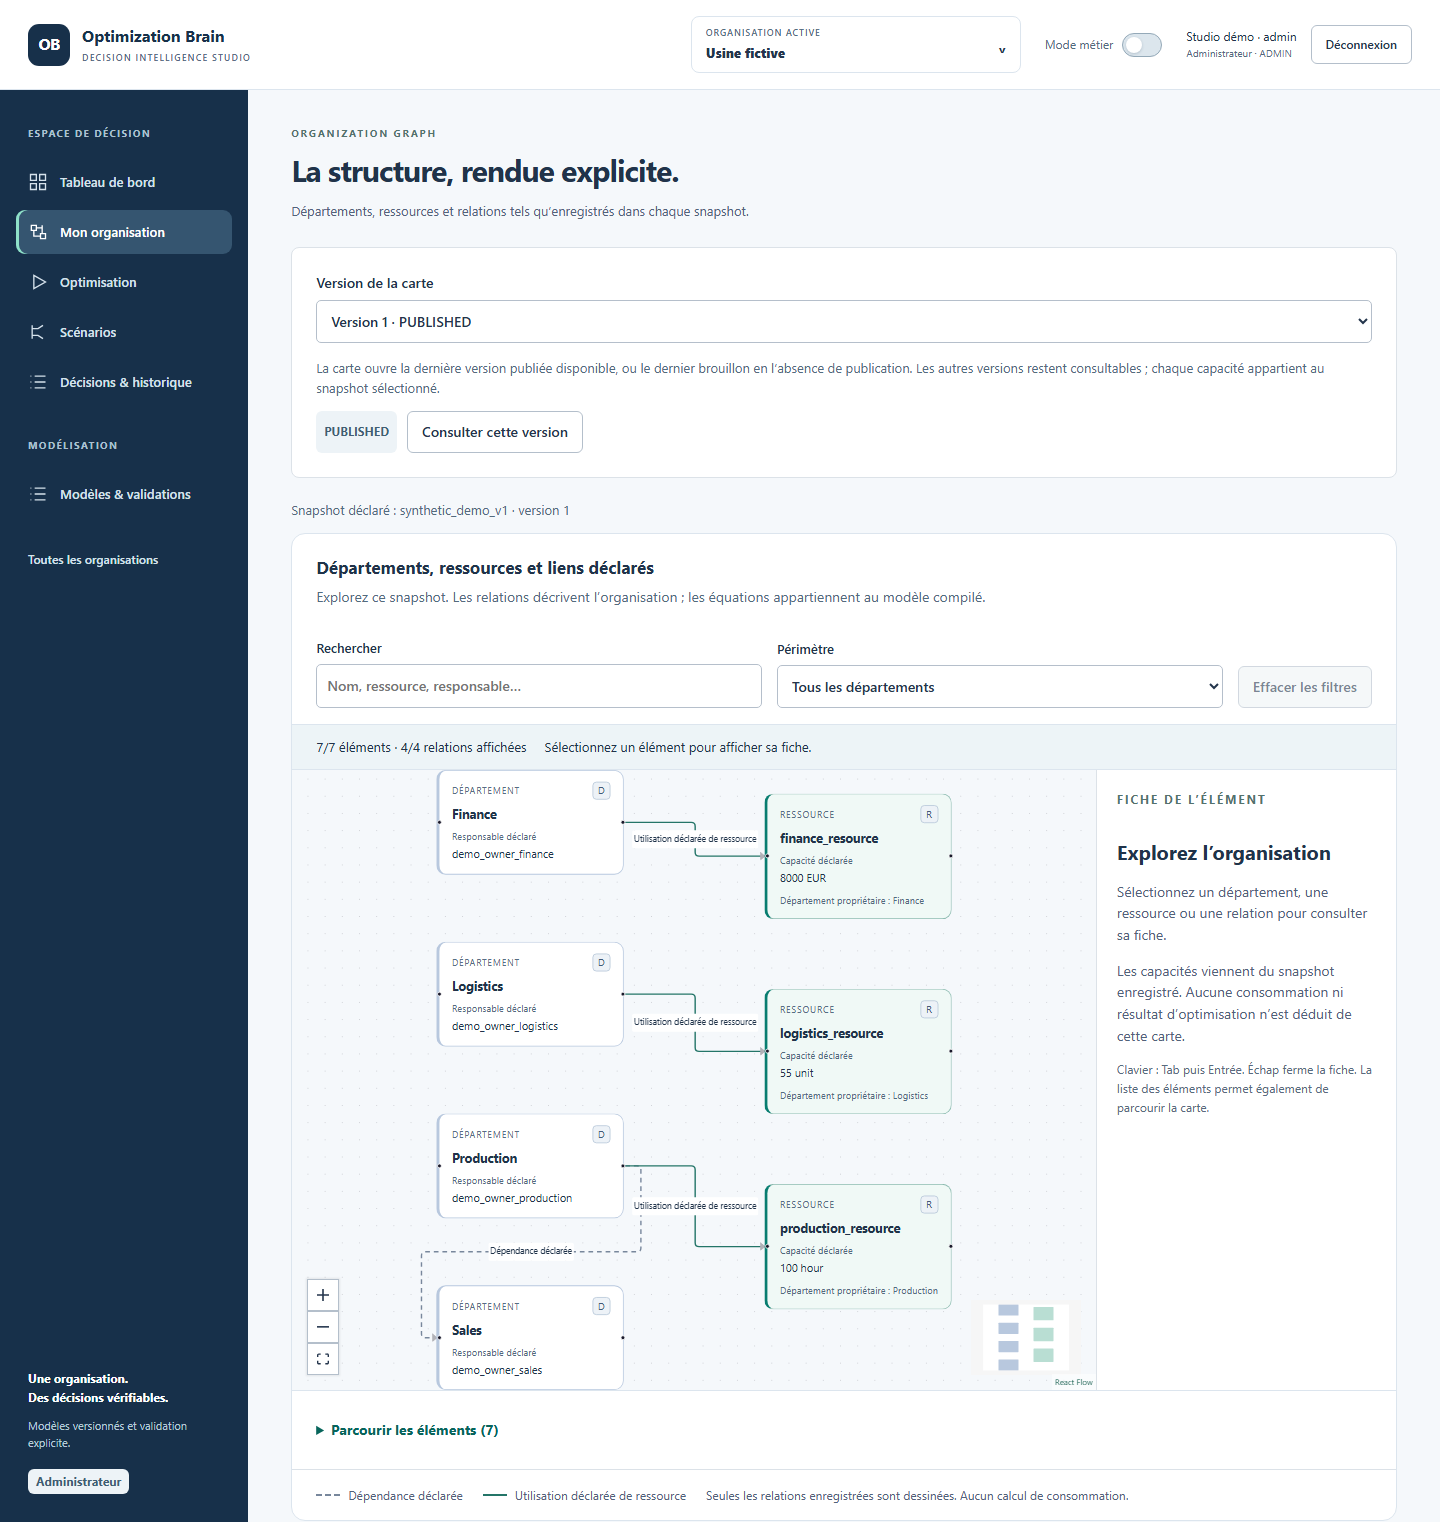
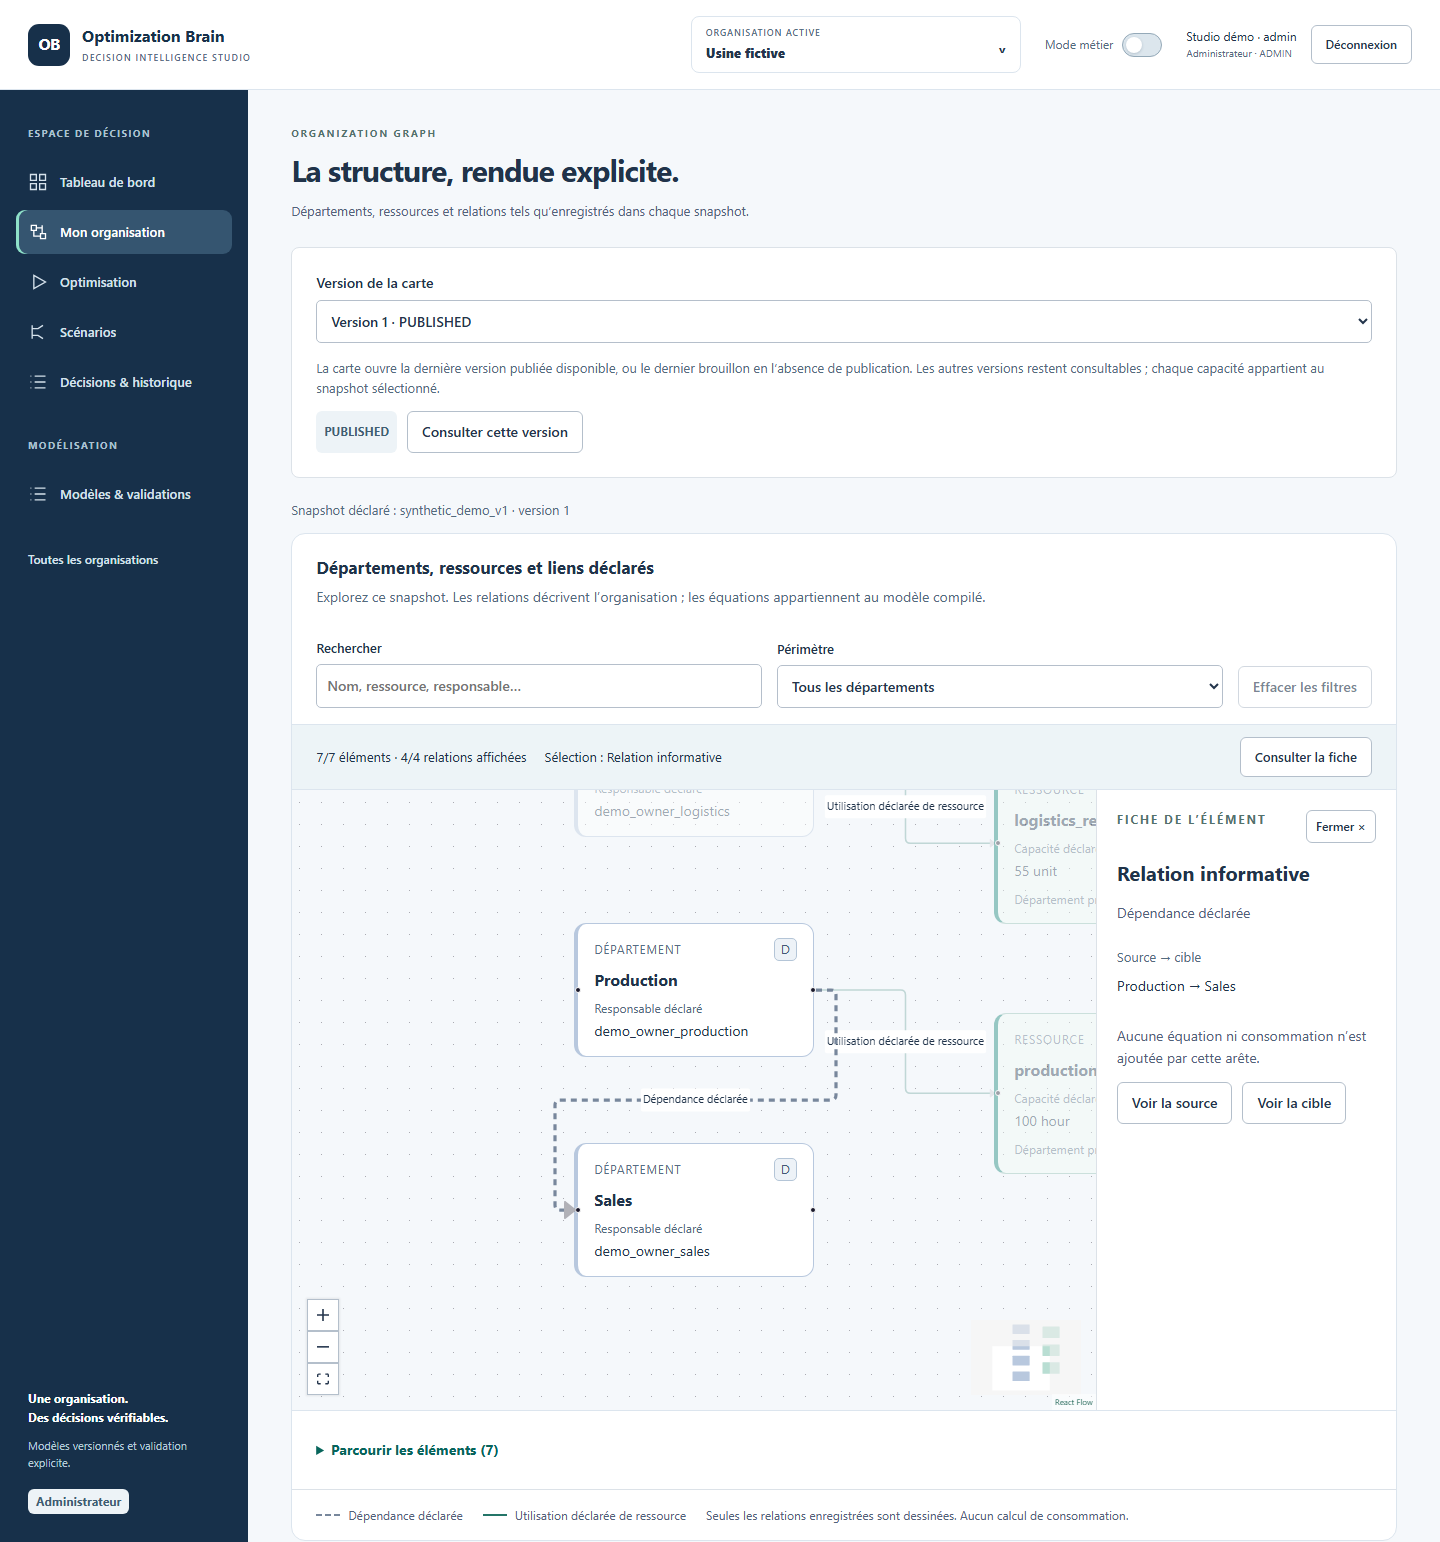
fix: reveal filtered relation endpoints during map inspection

diff --git a/frontend/tests/e2e/organization-map.spec.ts b/frontend/tests/e2e/organization-map.spec.ts
@@ -40,7 +40,10 @@ async function captureMap(page: Page, name: string) {
   const bounds = await page.locator(".organization-map-shell").boundingBox();
   if (!bounds) throw new Error("Map bounds unavailable");
   try {
-    await page.setViewportSize({ width: viewport.width, height: Math.max(viewport.height, Math.ceil(bounds.y + bounds.height)) });
+    await page.setViewportSize({
+      width: viewport.width,
+      height: Math.max(viewport.height, Math.ceil(bounds.y + bounds.height)),
+    });
     await page.evaluate(() => window.scrollTo(0, 0));
     await page.screenshot({ path: `${screenshots}/${name}.png` });
   } finally {
@@ -143,6 +146,27 @@ for (const [sector, fixture] of [
     await expect(page.locator(".react-flow__edge")).toHaveCount(
       graph.edges.length,
     );
+    const dependency = graph.edges.find((edge) => edge.type === "DEPENDS_ON");
+    if (dependency) {
+      const source = graph.departments.find(
+        (node) => node.id === dependency.source_id,
+      )!;
+      const target = graph.departments.find(
+        (node) => node.id === dependency.target_id,
+      )!;
+      await page.getByLabel("Rechercher dans la carte").fill(target.name);
+      await page.locator(`.react-flow__node[data-id="${target.id}"]`).focus();
+      await page.keyboard.press("Enter");
+      await inspector
+        .getByRole("button", {
+          name: new RegExp(`${source.name} → ${target.name}`),
+        })
+        .click();
+      await expect(page.getByLabel("Rechercher dans la carte")).toHaveValue("");
+      await expect(
+        page.locator(`.react-flow__edge[data-id="${dependency.id}"]`),
+      ).toBeVisible();
+    }
     expect(mutations).toEqual([]);
     await captureMap(page, `ux-f3-${sector}-1440`);
   });

diff --git a/frontend/tests/organization-map.test.tsx b/frontend/tests/organization-map.test.tsx
@@ -168,6 +168,36 @@ it("provides an explicit no-results state and restores all stored elements", () 
   expect(container.querySelectorAll(".react-flow__node")).toHaveLength(7);
 });
 
+it("reveals both endpoints when inspecting a relation outside the search perimeter", async () => {
+  const doc = decode("GraphArtifactResponse", factory.graph).document;
+  const edge = doc.graph.edges.find((item) => item.type === "DEPENDS_ON")!;
+  const target = doc.graph.departments.find(
+    (node) => node.id === edge.target_id,
+  )!;
+  const source = doc.graph.departments.find(
+    (node) => node.id === edge.source_id,
+  )!;
+  const { container } = render(<GraphCanvas document={doc} />);
+  fireEvent.change(screen.getByLabelText("Rechercher dans la carte"), {
+    target: { value: target.name },
+  });
+  fireEvent.click(
+    container.querySelector(`.react-flow__node[data-id="${target.id}"]`)!,
+  );
+  fireEvent.click(
+    within(container.querySelector(".inspector") as HTMLElement).getByRole(
+      "button",
+      { name: new RegExp(`${source.name} → ${target.name}`) },
+    ),
+  );
+  expect(screen.getByLabelText("Rechercher dans la carte")).toHaveValue("");
+  await waitFor(() =>
+    expect(
+      container.querySelector(`.react-flow__edge[data-id="${edge.id}"]`),
+    ).toBeInTheDocument(),
+  );
+});
+
 it("has separate dependency/use semantics, French search and an honest visual department perimeter", () => {
   const doc = decode("GraphArtifactResponse", factory.graph).document;
   const graph = doc.graph;

diff --git a/frontend/src/features/graph/GraphCanvas.tsx b/frontend/src/features/graph/GraphCanvas.tsx
@@ -227,20 +227,28 @@ function GraphSession({
     });
   }
   function reveal(next: NonNullable<GraphSelection>) {
-    if (next.kind === "node" && !visible.has(next.id)) {
+    const edge =
+      next.kind === "edge"
+        ? graph.edges.find((item) => item.id === next.id)
+        : undefined;
+    const ids =
+      next.kind === "node"
+        ? [next.id]
+        : edge
+          ? [edge.source_id, edge.target_id]
+          : [];
+    if (ids.some((id) => !visible.has(id))) {
       setSearch("");
       setDepartment("");
     }
     choose(next);
-    const node =
-      next.kind === "node"
-        ? nodes.find((item) => item.id === next.id)
-        : undefined;
-    if (node)
+    const targets = nodes.filter((item) => ids.includes(item.id));
+    if (targets.length)
       void flow?.fitView({
-        nodes: [node],
+        nodes: targets,
+        includeHiddenNodes: true,
         padding: 0.5,
-        minZoom: 0.7,
+        minZoom: 0.02,
         maxZoom: 1,
         duration: 0,
       });

diff --git a/docs/validation-ux-f3.md b/docs/validation-ux-f3.md
@@ -64,18 +64,19 @@ Windows, Python 3.14.3, Node 24.13.0, PostgreSQL 17, Chromium Playwright.
 | Contrôle | Résultat local |
 |---|---|
 | TypeScript / build Vite / ESLint | Réussis |
-| Vitest complet | **208 réussites, 15 fichiers** |
+| Vitest complet | **209 réussites, 15 fichiers** |
 | pytest complet, PostgreSQL réel | **478 réussites, 8 variantes SQLite ignorées**, 209 s |
 | Ruff check et format du périmètre CI | Réussis, 67 fichiers formatés contrôlés |
 | mypy sans arguments, périmètre configuré du projet | Réussi, 46 fichiers source |
 | Playwright complet, API/PostgreSQL/worker réels | **50 réussites**, dont les **42 parcours préexistants**, 2,6 min |
-| Huit parcours carte rejoués après espacement final | **8 réussites** |
+| Huit parcours carte rejoués après les corrections finales | **8 réussites** |
 | Mesures après sur snapshots identiques | 9 échantillons, tailles 7/50/200, empreintes concordantes |
 
-Quatorze nouveaux tests Vitest : dix tests de projection/interactions et quatre
+Quinze nouveaux tests Vitest : onze tests de projection/interactions et quatre
 de chargement. Ils couvrent les deux secteurs, les relations exactes, l’absence
 d’arêtes dérivées, les namespaces nœud/arête, les décimaux exacts, les filtres,
-le mode expert sans reprojection, le reset de snapshot, le clavier, les états
+le mode expert sans reprojection, le reset de snapshot, le dévoilement d’une
+relation filtrée avec ses deux extrémités, le clavier, les états
 vides, la sélection publié/brouillon, les réponses tardives et le retry.
 Le test du dernier plan vérifié attend désormais la fin de son chargement
 asynchrone ; son assertion de valeur est conservée. Aucun code dashboard changé.
@@ -87,6 +88,10 @@ existants des quatre rôles ADMIN/BUILDER/APPROVER/VIEWER sont conservés.
 Les assertions techniques historiques activent explicitement le mode expert.
 Un contour absent sur le titre après transfert programmatique du focus a été
 reproduit puis corrigé ; les cartes enrichies ont aussi reçu plus d’espace vertical.
+Un autre test a reproduit une relation sélectionnée dont une extrémité restait
+masquée par la recherche. La navigation depuis la fiche efface désormais les
+filtres concernés et ajuste la vue sur les deux extrémités enregistrées ; le
+parcours usine réel contrôle ce cas. Aucun objet du snapshot n’est changé.
 
 Commandes :
 
@@ -124,6 +129,8 @@ et doivent être rapprochés du SHA de la PR, pas d’une exécution antérieure
 Trois contextes neufs par taille, React développement avec Profiler, largeur 1440,
 hauteur 1040, mouvement réduit. Projection Node : 30 appels après 10 échauffements.
 Même machine, mêmes documents persistés, mêmes empreintes avant/après.
+La série après correspond au rendu `6ec3d28`, avant le correctif de navigation
+depuis une fiche filtrée ; ce chemin n’est pas exercé par le benchmark clavier.
 
 Médianes en millisecondes, avant → après :
 
